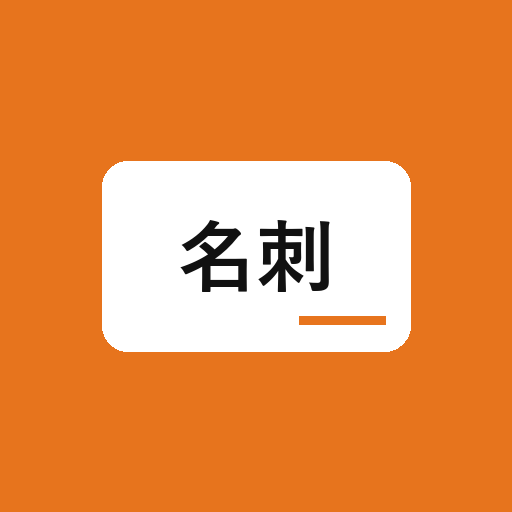
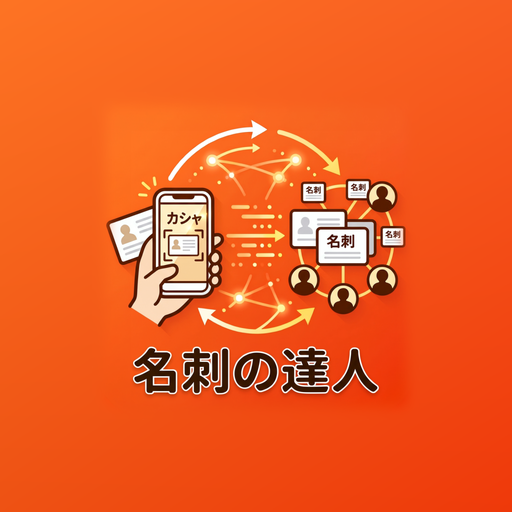
表示名を名刺の達人に変更・アイコンを差し替え

diff --git a/guide/index.html b/guide/index.html
@@ -3,8 +3,8 @@
 <head>
   <meta charset="utf-8">
   <meta name="viewport" content="width=device-width, initial-scale=1">
-  <title>名刺管理君 導入手順書</title>
-  <meta name="description" content="名刺管理君を自社の Google Workspace に入れて、社員のスマホで使えるようにするまでの手順です。">
+  <title>名刺の達人 導入手順書</title>
+  <meta name="description" content="名刺の達人を自社の Google Workspace に入れて、社員のスマホで使えるようにするまでの手順です。">
   <meta name="theme-color" content="#E7741D">
   <meta name="referrer" content="no-referrer">
   <link rel="icon" href="../icons/icon-192.png">
@@ -13,14 +13,14 @@
 <body>
   <header class="bar">
     <div class="inner">
-      <h1>名刺管理君 導入手順書</h1>
+      <h1>名刺の達人 導入手順書</h1>
       <p>Google Workspace の申し込みから、社員のスマホで使い始めるまで</p>
     </div>
   </header>
 
   <main>
     <h2 id="intro">はじめに</h2>
-    <p>名刺管理君は、スマホで名刺を撮るだけで、名前・会社・電話番号などを読み取って会社の名刺台帳に登録するアプリです。登録した名刺は、同じ会社の社員だけが見られます。ほかの会社の人や、Kamo's BASE（提供元）は見られません。</p>
+    <p>名刺の達人は、スマホで名刺を撮るだけで、名前・会社・電話番号などを読み取って会社の名刺台帳に登録するアプリです。登録した名刺は、同じ会社の社員だけが見られます。ほかの会社の人や、Kamo's BASE（提供元）は見られません。</p>
     <p>名刺の台帳と画像は、御社の Google Workspace の中（共有ドライブ）に保存されます。この手順書では、Google Workspace を契約していない状態から、社員のスマホで使い始めるまでを順に説明します。</p>
 
     <h3>用意するもの</h3>
@@ -36,7 +36,7 @@
     <div class="scroll">
     <table>
       <tr><th>何の費用</th><th>支払い先</th><th>目安</th></tr>
-      <tr><td>Google Workspace</td><td>Google</td><td>Business Starter の年間プランで、1人あたり月800円（税別）。名刺管理君はこのプランで使えます。14日間の無料試用があります</td></tr>
+      <tr><td>Google Workspace</td><td>Google</td><td>Business Starter の年間プランで、1人あたり月800円（税別）。名刺の達人はこのプランで使えます。14日間の無料試用があります</td></tr>
       <tr><td>Gemini API（名刺の読み取り・AIに相談）</td><td>Google</td><td>前払い制で、最初に5ドル（約750円）以上を入金します。名刺1枚の読み取りは1円未満の見込みです（Google の公開料金からの試算）</td></tr>
       <tr><td>独自ドメイン（持っていない場合）</td><td>申し込みの途中で購入（販売元は Squarespace）</td><td>1年分の料金を購入時に払います。金額は購入画面に出ます</td></tr>
     </table>
@@ -67,7 +67,7 @@
 
     <!-- 1 -->
     <h2 id="s1">1. Google Workspace を申し込む</h2>
-    <p>Google Workspace は、会社のメールアドレス（例：<code>yamada@example.co.jp</code>）で使える Google の有料サービスです。名刺管理君は、Google Workspace の共有ドライブとスプレッドシートに名刺を保存します。</p>
+    <p>Google Workspace は、会社のメールアドレス（例：<code>yamada@example.co.jp</code>）で使える Google の有料サービスです。名刺の達人は、Google Workspace の共有ドライブとスプレッドシートに名刺を保存します。</p>
     <ol class="steps">
       <li>パソコンで <a href="https://workspace.google.com/business/signup/welcome?hl=ja" target="_blank" rel="noopener">Google Workspace の申し込みページ</a> を開きます。</li>
       <li><span class="ui">会社名</span> を入れ、<span class="ui">自分を含む従業員の数</span> を選び、<span class="ui">地域</span> が <span class="ui">日本</span> になっていることを確かめて、<span class="ui">次へ</span> を押します。
@@ -93,12 +93,12 @@
     </div>
     <div class="note">
       <strong>Gmail のアドレスでは申し込まない</strong>
-      Gmail のアドレス（<code>@gmail.com</code>）でも申し込めますが、その場合は1人でしか使えず、社員を追加できません。名刺管理君を会社で使うには、会社のドメインで申し込んでください。
+      Gmail のアドレス（<code>@gmail.com</code>）でも申し込めますが、その場合は1人でしか使えず、社員を追加できません。名刺の達人を会社で使うには、会社のドメインで申し込んでください。
     </div>
 
     <!-- 2 -->
     <h2 id="s2">2. 社員のアカウントを作る</h2>
-    <p>名刺管理君を使う社員ごとに、会社のメールアドレス（例：<code>suzuki@example.co.jp</code>）を作ります。</p>
+    <p>名刺の達人を使う社員ごとに、会社のメールアドレス（例：<code>suzuki@example.co.jp</code>）を作ります。</p>
     <ol class="steps">
       <li>パソコンで <a href="https://admin.google.com/ac/users" target="_blank" rel="noopener">管理コンソールのユーザー一覧</a> を開きます（代表アカウントでログイン）。</li>
       <li><span class="ui">新しいユーザーの追加</span> を押します。
@@ -134,7 +134,7 @@
         <figure><img src="img/g-drive-members.png" alt="メンバーを管理の画面。ユーザーやグループを追加に赤い枠" loading="lazy" style="width:520px"></figure>
       </li>
     </ol>
-    <div class="note"><strong>アプリで見るだけなら</strong>名刺管理君のアプリで名刺を見たり登録したりするだけなら、共有ドライブのメンバーに入っていなくても使えます。メンバーに加えると、スプレッドシートや画像をドライブで直接見られるようになります。</div>
+    <div class="note"><strong>アプリで見るだけなら</strong>名刺の達人のアプリで名刺を見たり登録したりするだけなら、共有ドライブのメンバーに入っていなくても使えます。メンバーに加えると、スプレッドシートや画像をドライブで直接見られるようになります。</div>
 
     <h3>3-3. フォルダとスプレッドシートを作る</h3>
     <ol class="steps">
@@ -170,7 +170,7 @@
       <li>右上の <span class="ui">API キーを作成</span> を押します。
         <figure><img src="img/g-ai-keys.png" alt="Google AI Studio の API キーの画面。API キーを作成に赤い枠" loading="lazy"><figcaption>一覧の行は例です</figcaption></figure>
       </li>
-      <li><span class="ui">キー名の設定</span> に <code>名刺管理君</code> と入れ、<span class="ui">キーを作成</span> を押します。<span class="ui">インポートしたプロジェクトを選択</span> は、最初に選ばれているままでかまいません。
+      <li><span class="ui">キー名の設定</span> に <code>名刺の達人</code> と入れ、<span class="ui">キーを作成</span> を押します。<span class="ui">インポートしたプロジェクトを選択</span> は、最初に選ばれているままでかまいません。
         <figure><img src="img/g-ai-create.png" alt="新しいキーを作成する画面" loading="lazy" style="width:420px"></figure>
       </li>
       <li>一覧に増えたキーの行で、右側の四角が2つ重なったアイコン（<span class="ui">API キーのコピー</span>）を押すと、キーがコピーされます。メモ帳などに貼って控えます（手順6で使います）。</li>
@@ -194,7 +194,7 @@
       <li><span class="ui">プロジェクトの詳細</span> の画面が開きます。右上の <span class="ui">コピーを作成</span>（四角が2つ重なった形のボタン）を押します。別の画面が開いたときは、左の <span class="ui">概要</span>（ⓘ のアイコン）を押すと、この画面になります。
         <figure><img src="img/g-gas-copy.png" alt="Apps Script のプロジェクトの詳細。コピーを作成に赤い枠" loading="lazy"></figure>
       </li>
-      <li>コピーが開きます。左上の名前を押すと、名前を変えられます。<code>名刺管理君</code> にしておくとわかりやすいです。</li>
+      <li>コピーが開きます。左上の名前を押すと、名前を変えられます。<code>名刺の達人</code> にしておくとわかりやすいです。</li>
     </ol>
     <div class="note"><strong>コピーしたプログラムは御社のもの</strong>コピーは代表アカウントのマイドライブに作られ、御社のアカウントで動きます。Kamo's BASE からは見えません。</div>
 
@@ -273,10 +273,10 @@
 
     <!-- 10 -->
     <h2 id="s10">10. スマホに入れてログインする</h2>
-    <p>ここからは、名刺管理君を使う社員それぞれが、自分のスマホで行います。</p>
+    <p>ここからは、名刺の達人を使う社員それぞれが、自分のスマホで行います。</p>
     <ol class="steps">
-      <li>手順9の「設定用リンク」を、スマホで開きます。iPhone は Safari、Android は Chrome で開いてください。<span class="ui">このリンクの接続先（会社の名刺管理君）を使いますか？</span> と出ます。代表者から受け取ったリンクなら <span class="ui">OK</span> を押します。<span class="ui">ログイン</span> の画面が出ます。
-        <figure class="phone"><img src="img/app-login.png" alt="名刺管理君のログイン画面" loading="lazy"></figure>
+      <li>手順9の「設定用リンク」を、スマホで開きます。iPhone は Safari、Android は Chrome で開いてください。<span class="ui">このリンクの接続先（会社の名刺の達人）を使いますか？</span> と出ます。代表者から受け取ったリンクなら <span class="ui">OK</span> を押します。<span class="ui">ログイン</span> の画面が出ます。
+        <figure class="phone"><img src="img/app-login.png" alt="名刺の達人のログイン画面" loading="lazy"></figure>
       </li>
       <li>ログインする前に、この画面をホーム画面に追加します。
         <ul>
@@ -287,12 +287,12 @@
         </ul>
         iPhone の操作は、iOS の版によって表示が少し違います。詳しくは Apple のサポート <a href="https://support.apple.com/ja-jp/guide/iphone/iphea86e5236/26/ios/26" target="_blank" rel="noopener">Safari で Web サイトをホーム画面に追加する</a> を見てください。
       </li>
-      <li>ホーム画面に増えた <span class="ui">名刺管理君</span> のアイコンから開き、<span class="ui">Google でログイン</span> を押して、会社のアカウント（手順2で作ったもの）でログインします。</li>
+      <li>ホーム画面に増えた <span class="ui">名刺の達人</span> のアイコンから開き、<span class="ui">Google でログイン</span> を押して、会社のアカウント（手順2で作ったもの）でログインします。</li>
     </ol>
     <div class="warn">
       <strong>「OK」を押してよいのは、代表者から受け取ったリンクだけ</strong>
-      アプリを使い始めた後に、<span class="ui">接続先（会社の名刺管理君）を切り替えますか？</span> と出たら、<span class="ui">キャンセル</span> を押して代表者に知らせてください。代表者が新しいリンクを配ったときだけ、<span class="ui">OK</span> を押します。<br>
-      心当たりのないリンクで <span class="ui">OK</span> を押してしまったときは、すぐにアプリで名刺を撮ったり探したりするのをやめ、代表者に知らせてください。代表者から受け取った設定用リンクを開き直し、<span class="ui">接続先（会社の名刺管理君）を切り替えますか？</span> で <span class="ui">OK</span> を押すと、元の接続先に戻ります。
+      アプリを使い始めた後に、<span class="ui">接続先（会社の名刺の達人）を切り替えますか？</span> と出たら、<span class="ui">キャンセル</span> を押して代表者に知らせてください。代表者が新しいリンクを配ったときだけ、<span class="ui">OK</span> を押します。<br>
+      心当たりのないリンクで <span class="ui">OK</span> を押してしまったときは、すぐにアプリで名刺を撮ったり探したりするのをやめ、代表者に知らせてください。代表者から受け取った設定用リンクを開き直し、<span class="ui">接続先（会社の名刺の達人）を切り替えますか？</span> で <span class="ui">OK</span> を押すと、元の接続先に戻ります。
     </div>
     <div class="note">
       <strong>ホーム画面のアイコンから開いて、もう一度ログイン</strong>
@@ -362,9 +362,9 @@
       <tr><td><code>E003: 画像の保存に失敗しました。</code> と出る</td><td>代表者が、手順6の <code>DRIVE_FOLDER_ID</code> を確かめてください。フォルダが共有ドライブの中にあり、代表アカウントがその共有ドライブのメンバーである必要があります。</td></tr>
       <tr><td><code>E012: AIを使う機能（登録・検索・相談・声の入力）の1日の利用回数の上限に達しました。</code> と出る</td><td>使いすぎで料金が増えないよう、AIを使う機能は1人1日300回・会社全体で1日3000回までにしています。時間をおいてお試しください。</td></tr>
       <tr><td>名刺の画像を開くと <code>名刺の画像の保存先にないファイルです</code> と出る</td><td>スプレッドシートの <span class="ui">画像(表)</span> <span class="ui">画像(裏)</span> <span class="ui">顔写真</span> の列が書き換えられています。アプリは、手順3の画像フォルダ（またはその共有ドライブ）の中の画像だけを開きます。共有ドライブの中に、一部の社員しか開けないフォルダを作らないでください（アプリからは、社員全員がその共有ドライブの画像を開けます）。代表者が、その行の画像の列を確かめてください。</td></tr>
-      <tr><td>アプリを開くと <span class="ui">このリンクの接続先（会社の名刺管理君）を使いますか？</span> または <span class="ui">接続先（会社の名刺管理君）を切り替えますか？</span> と出る</td><td>設定用リンクから開いたときに出ます。代表者から受け取ったリンクのときだけ <span class="ui">OK</span> を押してください。心当たりがなければ <span class="ui">キャンセル</span> を押し、代表者に知らせてください。</td></tr>
-      <tr><td><code>この名刺管理君の接続先を確かめられません</code> と出る</td><td>代表者が、手順8の <code>API_URL</code> を入れて保存したか確かめてください。</td></tr>
-      <tr><td><code>この名刺管理君あてのログインではありません</code> と出る</td><td>アプリを開き直して、もう一度ログインしてください。続くときは、代表者が手順8の <code>API_URL</code> が、社員に配った設定用リンクの URL（<code>?api=</code> の後ろ）と同じか確かめてください。</td></tr>
+      <tr><td>アプリを開くと <span class="ui">このリンクの接続先（会社の名刺の達人）を使いますか？</span> または <span class="ui">接続先（会社の名刺の達人）を切り替えますか？</span> と出る</td><td>設定用リンクから開いたときに出ます。代表者から受け取ったリンクのときだけ <span class="ui">OK</span> を押してください。心当たりがなければ <span class="ui">キャンセル</span> を押し、代表者に知らせてください。</td></tr>
+      <tr><td><code>この名刺の達人の接続先を確かめられません</code> と出る</td><td>代表者が、手順8の <code>API_URL</code> を入れて保存したか確かめてください。</td></tr>
+      <tr><td><code>この名刺の達人あてのログインではありません</code> と出る</td><td>アプリを開き直して、もう一度ログインしてください。続くときは、代表者が手順8の <code>API_URL</code> が、社員に配った設定用リンクの URL（<code>?api=</code> の後ろ）と同じか確かめてください。</td></tr>
       <tr><td>エラーに <code>ScriptProperty "…" が設定されていません。</code> と出る</td><td>手順6で、その名前のスクリプト プロパティが抜けています。入れて <span class="ui">スクリプト プロパティを保存</span> を押してください。</td></tr>
       <tr><td>スクリプト プロパティを直したあと</td><td>直した値は、保存した時点から効きます。もう一度デプロイ（手順8）する必要はありません。</td></tr>
     </table>
@@ -372,7 +372,7 @@
     <p>上で解決しないときは、表示された文章（<code>[原因]</code> の行を含む）を控えて、Kamo's BASE にお問い合わせください。</p>
 
     <footer>
-      名刺管理君（Kamo's BASE）　この手順書の内容は 2026年10月時点のものです。Google の画面や料金は変わることがあります。画面の画像は押すと大きく表示されます。
+      名刺の達人（Kamo's BASE）　この手順書の内容は 2026年10月時点のものです。Google の画面や料金は変わることがあります。画面の画像は押すと大きく表示されます。
     </footer>
   </main>
   <script>

diff --git a/index.html b/index.html
@@ -3,23 +3,23 @@
 <head>
   <meta charset="utf-8">
   <meta name="viewport" content="width=device-width, initial-scale=1, viewport-fit=cover">
-  <title>名刺管理君</title>
+  <title>名刺の達人</title>
   <meta name="theme-color" content="#E7741D">
   <meta name="apple-mobile-web-app-capable" content="yes">
   <meta name="mobile-web-app-capable" content="yes">
-  <meta name="apple-mobile-web-app-title" content="名刺管理君">
+  <meta name="apple-mobile-web-app-title" content="名刺の達人">
   <meta name="apple-mobile-web-app-status-bar-style" content="default">
   <meta name="referrer" content="no-referrer">
   <link rel="manifest" href="manifest.webmanifest">
-  <link rel="icon" href="icons/icon-192.png">
-  <link rel="apple-touch-icon" href="icons/apple-touch-icon.png">
+  <link rel="icon" href="icons/icon-192.png?v=meishi1">
+  <link rel="apple-touch-icon" href="icons/apple-touch-icon.png?v=meishi1">
   <link rel="stylesheet" href="style.css">
   <script src="config.js"></script>
   <script src="https://accounts.google.com/gsi/client" async defer></script>
 </head>
 <body>
   <header class="bar">
-    <h1>名刺管理君</h1>
+    <h1>名刺の達人</h1>
     <span id="who" class="who"></span>
     <button id="logout" class="close" hidden>閉じる</button>
   </header>

diff --git a/app.js b/app.js
@@ -117,8 +117,8 @@
     var saved = storageGet(API_URL_STORE);
     if (fromLink && validApiUrl(fromLink) && fromLink !== saved) {
       var question = validApiUrl(saved)
-        ? '接続先（会社の名刺管理君）を切り替えますか？\n\n今の接続先: ' + apiLabel(saved) + '\n新しい接続先: ' + apiLabel(fromLink)
-        : 'このリンクの接続先（会社の名刺管理君）を使いますか？\n\n接続先: ' + apiLabel(fromLink);
+        ? '接続先（会社の名刺の達人）を切り替えますか？\n\n今の接続先: ' + apiLabel(saved) + '\n新しい接続先: ' + apiLabel(fromLink)
+        : 'このリンクの接続先（会社の名刺の達人）を使いますか？\n\n接続先: ' + apiLabel(fromLink);
       if (confirm(question + '\n\n会社の導入担当から受け取ったリンクのときだけ「OK」を押してください。心当たりがなければ「キャンセル」を押してください。')) {
         storageSet(API_URL_STORE, fromLink);
         sessionSet(TOKEN_KEY, '');

diff --git a/sw.js b/sw.js
@@ -2,7 +2,7 @@
 // 画面のファイル（HTML・JS・CSS・アイコン）だけを置いておき、電波が弱くてもアプリが開くようにする。
 // 名刺のデータ（GASとのやり取り）は別のサイトあてなので、ここでは扱わない・保存しない。
 // 画面を更新したら VERSION を上げる。
-const VERSION = 'meishi-v10';
+const VERSION = 'meishi-v11';
 const SHELL = [
   './',
   './index.html',

diff --git a/README.md b/README.md
@@ -1,6 +1,6 @@
-# 名刺管理君（アプリの画面）
+# 名刺の達人（アプリの画面）
 
-Kamo's BASE の名刺管理アプリ「名刺管理君」の画面です。スマホのホーム画面に置いて使います。
+Kamo's BASE の名刺管理アプリ「名刺の達人」の画面です。スマホのホーム画面に置いて使います。
 
 - このリポジトリにあるのは画面（HTML・JavaScript・CSS・アイコン）だけです。名刺のデータ、APIキー、サーバー側のコードは入っていません。
 - 名刺のデータは、各社の Google Workspace（スプレッドシート・共有ドライブ）に保存されます。この画面を置いているサイトには届きません。
